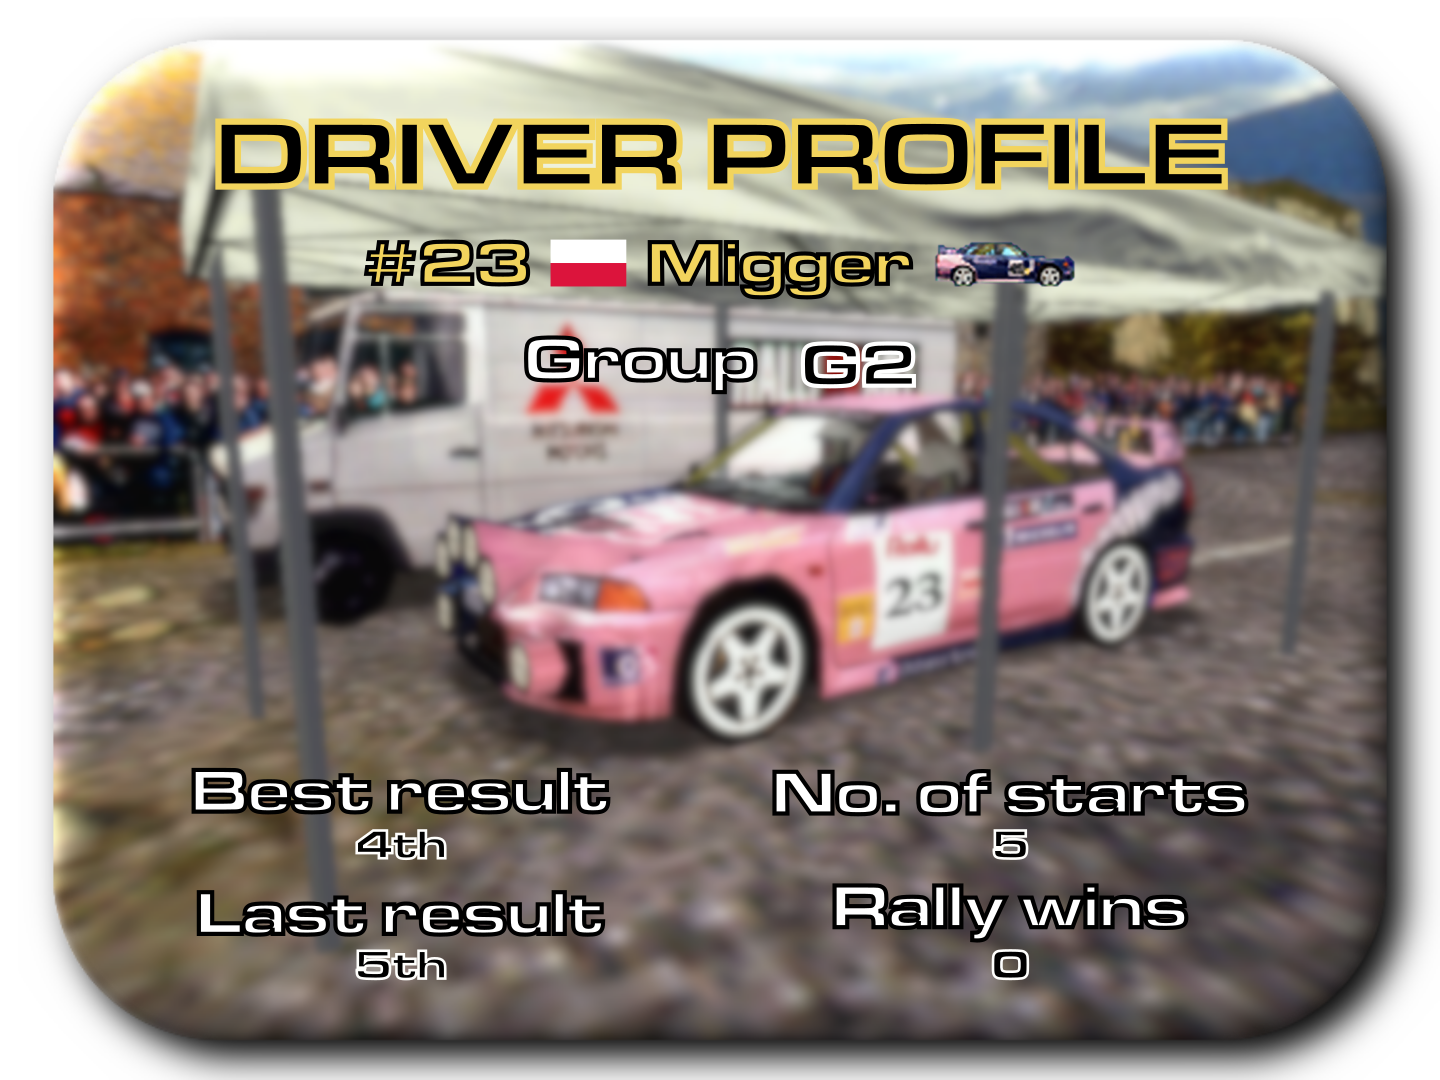
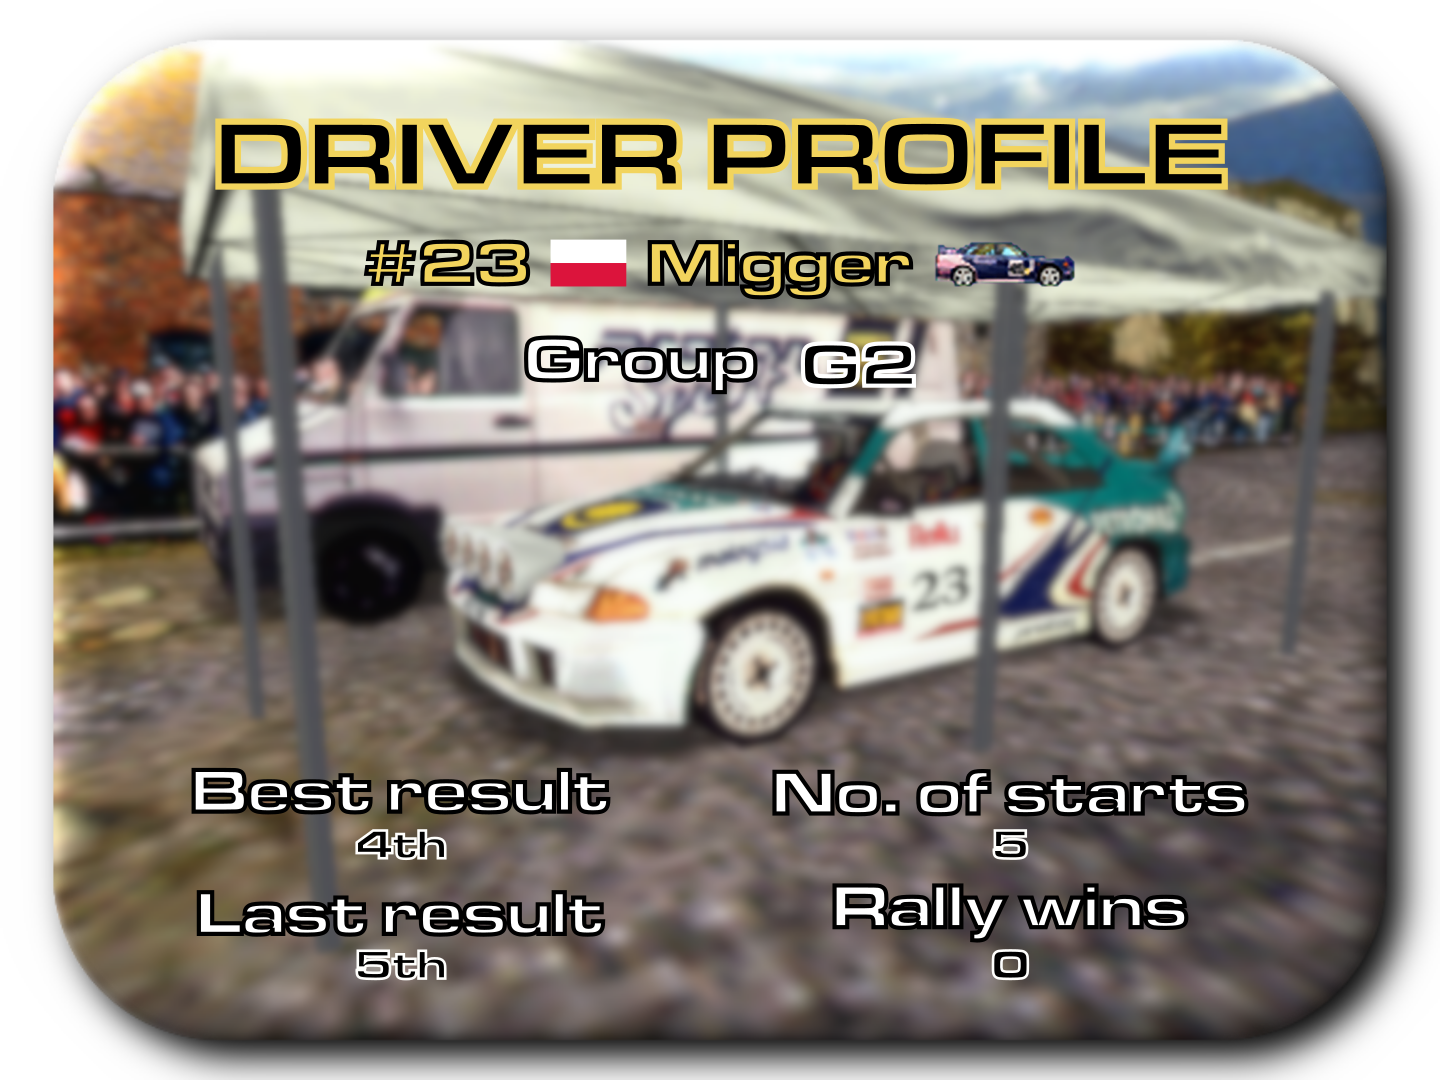
Change Migger's car

Changed region(s): [[0.125, 0.2444, 0.8438, 0.7028]]

diff --git a/js/MFMI23/contestData.js b/js/MFMI23/contestData.js
@@ -16,7 +16,7 @@ function contestData(){
     const participantColor = () => participantColors[colorIndex++];
 
     let Erwto =         new Participant(20, website.GetUserByName('Erwto'),             participantColor(), 'Mitsubishi Lancer Evo IV');
-    let Migger =        new Participant(23, website.GetUserByName('Migger'),            participantColor(), 'Mitsubishi Lancer Evo IV');
+    let Migger =        new Participant(23, website.GetUserByName('Migger'),            participantColor(), 'Proton Wira/Persona');
     let SpartaRemixer = new Participant(2,  website.GetUserByName('SpartaRemixer'),     participantColor(), 'Subaru Impreza WRC');
     let Ephemeral =     new Participant(25, website.GetUserByName('Ephemeral'),         participantColor(), 'Mitsubishi Lancer Evo IV');
     let XsaraTorrada =  new Participant(69, website.GetUserByName('XsaraTorrada'),      participantColor(), 'Peugeot 206 WRC');
